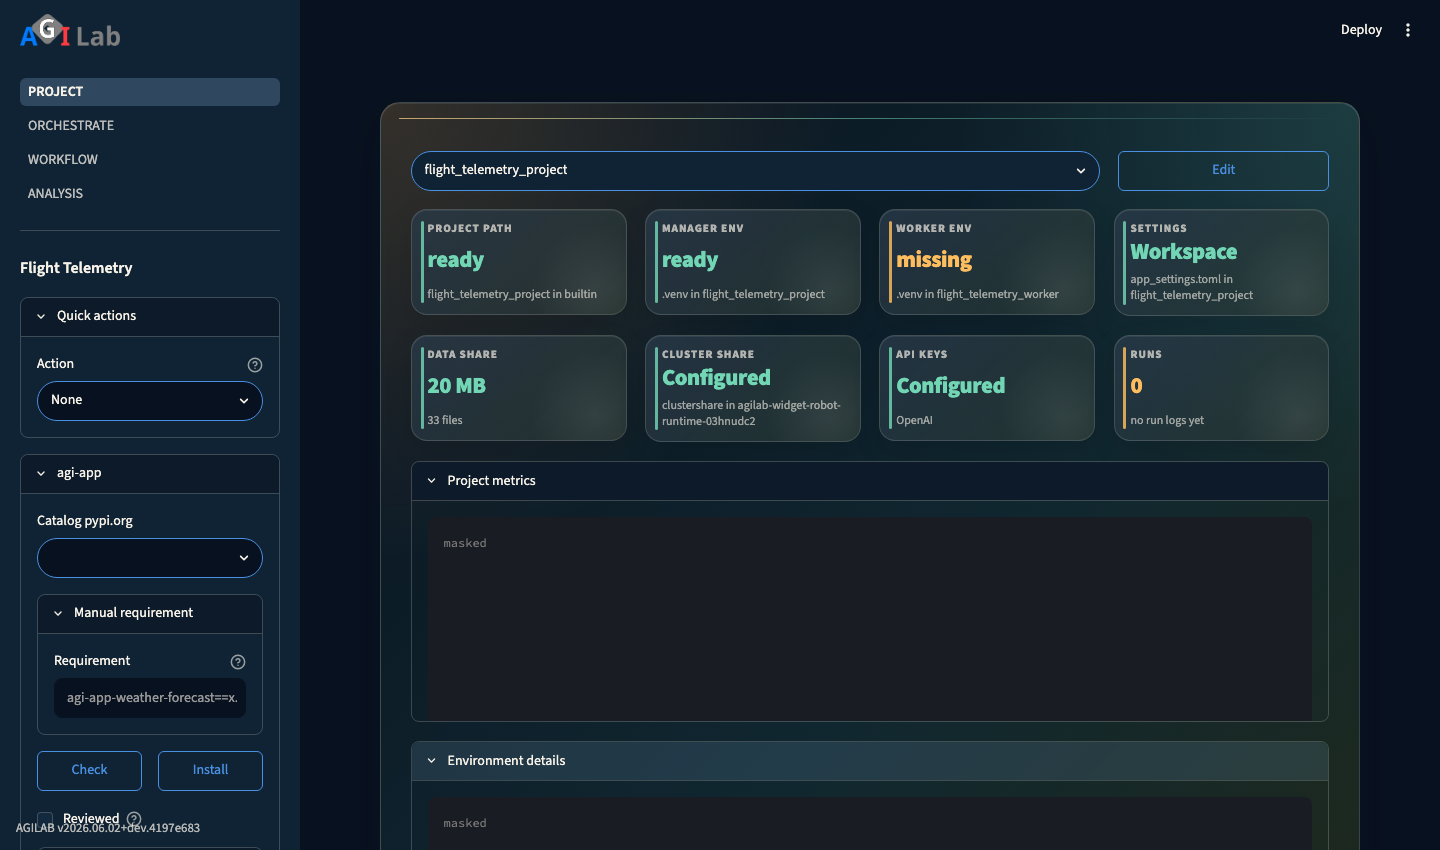
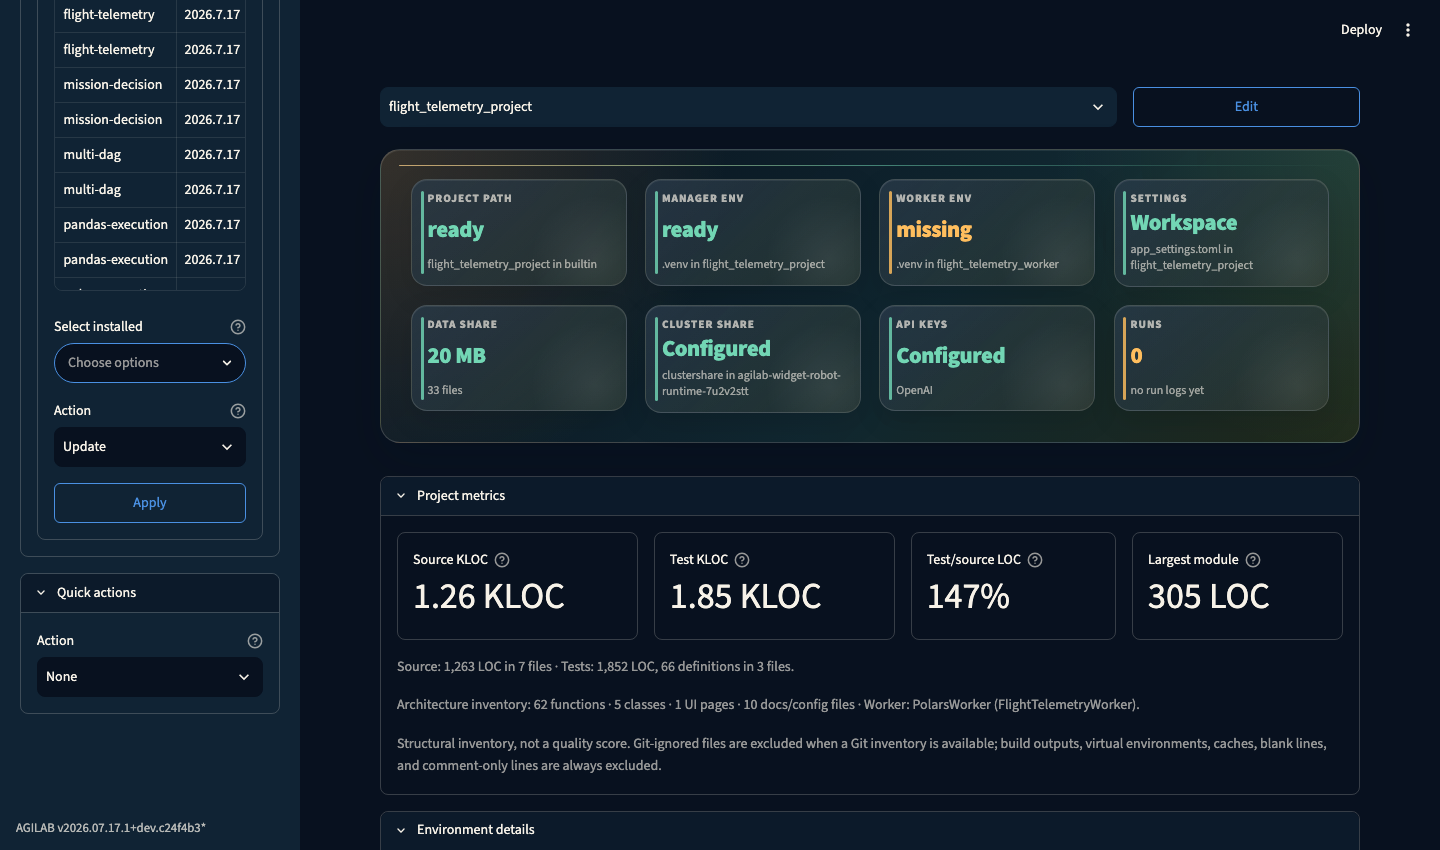
docs: mirror project development KPI evidence

diff --git a/docs/source/edit-help.rst b/docs/source/edit-help.rst
@@ -8,11 +8,11 @@ Page snapshot
 -------------
 
 .. figure:: _static/page-shots/project-page.svg
-   :alt: Screenshot of the PROJECT page with the project selector and source-file expanders.
+   :alt: Screenshot of the PROJECT dashboard with environment health and development KPI cards.
    :align: center
    :class: diagram-panel diagram-wide
 
-   The PROJECT page keeps project selection in the sidebar and exposes the editable source/config sections in the main panel.
+   The PROJECT page keeps project selection in the sidebar and presents environment health plus reproducible development indicators in the main panel.
 
 .. figure:: _static/page-shots/project-create-page.svg
    :alt: Screenshot of the PROJECT Create action with starting point, environment strategy, and new project name controls.
@@ -82,9 +82,39 @@ What to do next:
 
 Main Content Area
 -----------------
-- When ``Select`` is active the page reveals a stack of expanders backed by the
-  in-browser code editor. Each expander streams syntax-highlighted content and
-  writes any saved changes straight back to disk:
+
+The selected project opens on an operational overview. The first card group
+reports the project path, manager and worker environments, settings, data and
+cluster shares, API-key state, and run inventory. ``Environment details`` keeps
+the corresponding paths and diagnostics available below the overview.
+
+Development KPIs
+~~~~~~~~~~~~~~~~
+
+Open ``Project metrics`` to compute a structural inventory on demand. The
+expander is lazy: a collapsed panel does not rescan the project on every page
+rerun. Four cards provide the primary development indicators:
+
+- ``Source KLOC`` counts non-empty, non-comment physical Python source lines.
+- ``Test KLOC`` applies the same rule to test files and also reports the number
+  of ``test_*`` definitions. A parametrised definition is still one definition.
+- ``Test/source LOC`` divides test LOC by source LOC. It describes repository
+  structure and is explicitly **not** a code-coverage measurement.
+- ``Largest module`` identifies the largest source module by the same LOC rule.
+
+For projects inside a Git worktree, the inventory includes tracked files and
+new non-ignored files while excluding Git-ignored content. Build outputs,
+virtual environments, caches, blank lines, and comment-only lines are excluded.
+The secondary caption keeps functions, classes, UI pages, documentation/config
+files, and the detected worker class separate from the KPI cards. None of these
+figures is presented as a quality score.
+
+Editor route
+~~~~~~~~~~~~
+
+Use ``Edit`` beside the project selector to open the in-browser editor. Its
+expanders stream syntax-highlighted content and write saved changes straight
+back to disk:
 
   - ``PYTHON-ENV`` edits the project ``pyproject.toml`` so you can manage
     dependencies without leaving the browser.
